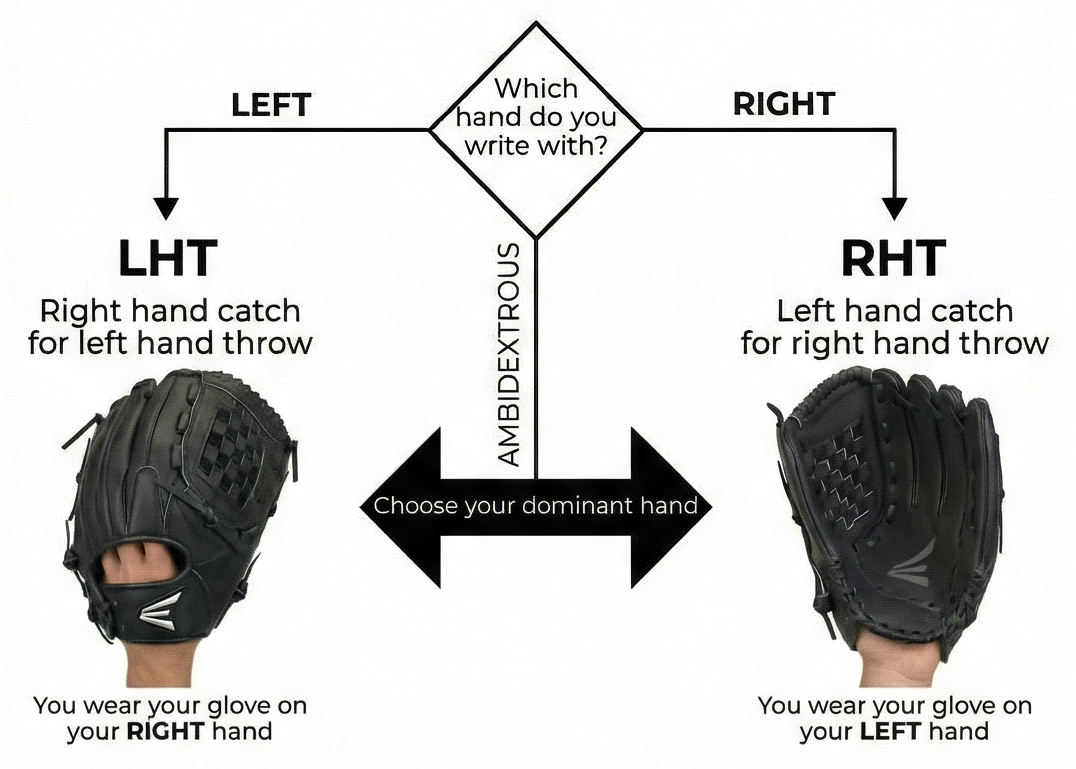
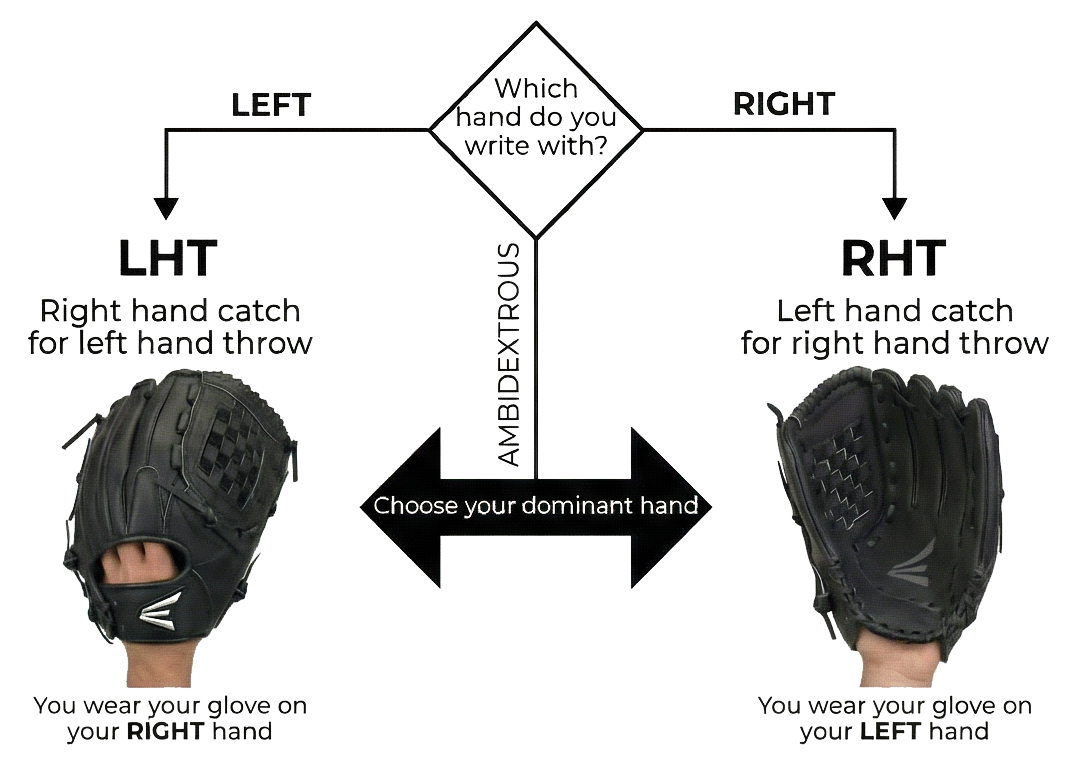
Refactor code structure for improved readability and maintainability

diff --git a/Resources/parents-hub.html b/Resources/parents-hub.html
@@ -100,14 +100,8 @@
 
 
 							<div class="ncll-card__graphics lightbox-scope">
-								<input type="checkbox" id="glovehand-lightbox" class="lightbox-toggle" />
-								<label for="glovehand-lightbox" class="lightbox-thumb" style="display:block;text-align:center;">
+								<label for="glovehand-lightbox" class="lightbox-thumb" style="display:block;text-align:center;cursor:pointer;">
 									<img class="ncll-card__graphic" src="https://ncllball.github.io/images/glovehand.png" alt="Glove hand illustration" />
-								</label>
-								<label for="glovehand-lightbox" class="lightbox" role="dialog" aria-modal="true" aria-label="Enlarged glove hand illustration" tabindex="0" style="z-index: 9999;">
-									<span class="sr-only">Close image</span>
-									<span class="close-btn" aria-hidden="true">x</span>
-									<img src="https://ncllball.github.io/images/glovehand.png" alt="Glove hand illustration enlarged" />
 								</label>
 							</div>
 
@@ -410,6 +404,14 @@
 				</article>
 			</div>
 		</section>
+		<div class="lightbox-scope">
+			<input type="checkbox" id="glovehand-lightbox" class="lightbox-toggle" />
+			<label for="glovehand-lightbox" class="lightbox" role="dialog" aria-modal="true" aria-label="Enlarged glove hand illustration" tabindex="0">
+				<span class="sr-only">Close image</span>
+				<span class="close-btn" aria-hidden="true">x</span>
+				<img src="https://ncllball.github.io/images/glovehand.png" alt="Glove hand illustration enlarged" />
+			</label>
+		</div>
 	</main>
 </body>
 
